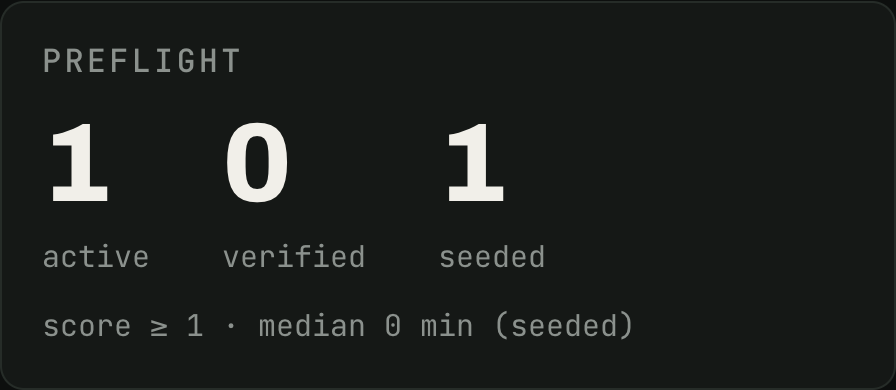
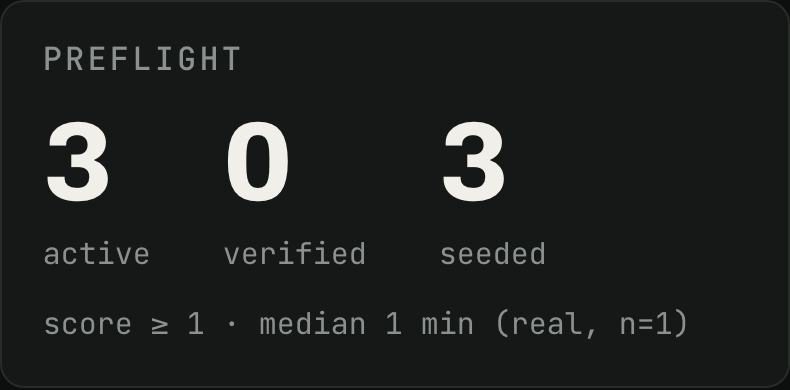
T-46: re-shoot the preflight capture now that the median is a real one
The Day-8 capture recorded `1 active · 0 verified · 1 seeded` with a seeded median,
and closed by saying the still should be re-shot once the pool was real. On Sept 9 a
World ID-verified worker walked to a shop on Rua do Cruzeiro, photographed the door
and was paid 3.00 — the first non-seeded completion the subgraph has ever held. This
is that re-shoot.

Captured against `ez1dn`, the cell the errand was completed in, through the deployed
MCP mount: `active 3 · verified 0 · seeded 3`, `n_real: 1`, `median_source: "real"`,
`median_minutes: 1`. The card reads `median 1 min (real, n=1)` and every number on it
is in the JSON.

All ten seeded timestamps are inside the seven-day window; no re-seed was needed and
none was run. The index is two blocks behind the chain head with no indexing errors,
so the counts are not a lag artefact. The window constant, `sinceTs` and the fixtures
are untouched.

`verified: 0` beside `n_real: 1` is recorded rather than closed: `verified` counts a
worker's own registration cell and `n_real` counts where the completion happened, and
this worker registered in ez19y while working in ez1dn. The phone was not
re-registered and demo-data.json was not edited.

The card now lives at `/live` — T-51 made `/` the landing page — and the still frames
the same `section.preflight.card` the Day-8 one did.

Claude-Session: https://claude.ai/code/session_014ZP9TtBjG6qArSJm57mpTS
[…]

diff --git a/docs/spikes/RESULTS.md b/docs/spikes/RESULTS.md
@@ -167,111 +167,104 @@ decision: Studio is where the subgraph lives for the demo and its query URL is w
 
 ## Preflight
 
-_live Studio data, Day 8 (T-46)_
+_live Studio data, Day 9 (T-46) — re-shot after the first real errand_
 
 outcome: `preflight_workers` answers from the live Studio subgraph, and every number it returned
-is the number the dashboard card renders — field for field, same minute. The split is **not** the
-`4 active · 1 verified · 3 seeded` the brief predicted. At capture the tool returned
-**1 active · 0 verified · 1 seeded**. Nothing had aged out of the seven-day window and no re-seed
-was needed: the shortfall is chain state, not the window and not the reduction. The median label
-true at capture was **`seeded`** — `n_real: 0`, `median_source: "seeded"` — so the card reads
-`median 0 min (seeded)` and nothing here presents it as a measured figure.
+is the number the dashboard card renders — field for field, same minute. **The median is drawn
+from a real completion**: `n_real: 1`, `median_source: "real"`, and the card reads
+`median 1 min (real, n=1)`. That is a person, not seeded data. Nothing had aged out of the
+seven-day window and no re-seed was needed.
 
-**The call.** Made against the deployed MCP server at `POST <API_BASE_URL>/mcp` (streamable HTTP,
-stateless), tool `preflight_workers`, arguments `{"task_type":"verify-open","area":"ez1dp"}` —
-`verify-open` is the funded row of `demo-data.json` and `ez1dp` is Leiria's geohash-5. Captured
-`2026-09-07T15:39:54Z`:
+**The call.** Made against the deployed MCP server at `POST $API_BASE_URL/mcp` (streamable HTTP,
+stateless), tool `preflight_workers`, arguments `{"task_type":"verify-open","area":"ez1dn"}`.
+`ez1dn` is the cell the real errand was completed in. Captured `2026-09-09T17:19:56Z`:
 
 ```json
 {
-  "active": 1,
+  "active": 3,
   "verified": 0,
-  "seeded": 1,
-  "n_real": 0,
+  "seeded": 3,
+  "n_real": 1,
   "score_floor": 1,
-  "median_minutes": 0,
-  "median_source": "seeded",
+  "median_minutes": 1,
+  "median_source": "real",
   "dashboard_url": "https://legwork-dashboard.vercel.app"
 }
 ```
 
-Not the fixture. `diff` of that JSON against `packages/subgraph-client/fixtures/preflight.json`
-prints `OK: live`; the fixture describes four `0x5eed…`/`0x0417…` addresses that do not exist on
-Base Sepolia.
+Not the fixture: diffed against `packages/subgraph-client/fixtures/preflight.json`, which prints
+`OK: live` — the fixture describes `0x5eed…`/`0x0417…` addresses that do not exist on Base Sepolia.
 
-**The seven-day window: every counted timestamp is inside it.** `{ workers(where:{seeded:true}){ id
-seeded lastCompletedAt } }` against the query URL, checked against `now − 604800`:
+**Where the real completion came from.** On 2026-09-09 a World ID-verified worker walked to a shop
+on Rua do Cruzeiro in Leiria, photographed the door and its hours sign, and was paid 3.00 USDC.
+The release transaction carries the two USDC `Transfer` logs the escrow promises —
+`3_000_000` to the worker and `450_000` to the treasury — and the worker is
+`0xaed0c1102e45b7f528224eacb9309a0925015810`, `seeded: false`, `completed: 1` in the index. It is
+the first non-seeded completion the subgraph has ever held.
+
+**The seven-day window: every counted timestamp is inside it.**
+`{ workers(where:{seeded:true}){ id seeded lastCompletedAt } }`, checked against `now − 604800`
+(cutoff `1788369607`):
 
 ```
 0x1d6662abfbcc49751235717fd18a30242cbfad37 1788781022 IN
+0x244183988b0779990c4c0a581aff797b99c87a4c 1788796528 IN
 0x24f9c1b734d304dd7c753c5253656c1389e076c6 1788780998 IN
-0x7b4eb10df800881f73bc1d85bdef02f82386271e 1788782124 IN
+0x5a95ec323ecce89d9f92ec59faec37d8fab88f66 1788857026 IN
+0x79d2de6f266839da58f3467df69104ba037981d3 1788796420 IN
+0x7b4eb10df800881f73bc1d85bdef02f82386271e 1788855340 IN
 0x87b90a409b0a84c378f8b11903eccdaa2cf74cab 1788781006 IN
+0x8b02a09a50f91debed73c9ea4dd9f6ad7a1bc0eb 1788856986 IN
 0x98e4682f8a1a6201907eeab9f7826a0ba4e408a9 1788781014 IN
+0xc24f49b0262cbfb52bc10a59dcfb4b33c3c04358 1788856944 IN
 ```
 
-Five of the 20 seeded workers carry a `lastCompletedAt` at all; all five are `IN`, none within a
-day of the edge — the newest is 1788782124 against a cutoff of 1788190641, some four hours before
-capture rather than the six days the brief anticipated. The seeded lifecycles were written later
-than Day 2. **No re-seed was needed and none was run**; the window constant, the `sinceTs` argument
-and the fixtures are untouched.
+Ten seeded workers carry a `lastCompletedAt`; all ten are `IN`, none near the edge. **No re-seed
+was needed and none was run**; the window constant, the `sinceTs` argument and the fixtures are
+untouched.
 
-The index is at the head, so the numbers are not a lag artefact: `_meta.block.number = 46513589`,
-`hasIndexingErrors: false`, against an `eth_blockNumber` of `46513591` — two blocks on a 2-second
-chain.
+The index is at the head, so the numbers are not a lag artefact: `_meta.block.number = 46603057`
+and `hasIndexingErrors: false`, against an `eth_blockNumber` of `46603059` — two blocks on a
+two-second chain.
 
-**Why it is 1 · 0 · 1 and not 4 · 1 · 3.** Two separate gaps, both in what is onchain, neither in
-the tool:
+**`verified: 0` beside `n_real: 1` is not a contradiction, and it is worth writing down.** The two
+fields count different things against different cells. `verified` counts workers whose own
+`Worker.area` is the queried cell; `n_real` counts completions whose *task* was in it. The worker
+registered in `ez19y` and did the errand in `ez1dn`, so they are real in the median and invisible
+in the split. A worker who registers in one cell and works in another is counted by the second
+field and not the first. Nothing was changed to close the gap: the phone was not re-registered, no
+area was edited, and `demo-data.json` was left alone.
 
-- **`verified: 0`** — no worker with `seeded: false` exists in the index at all. The demo phone's
-  World ID registration has not landed onchain, so there is no real worker for the tool to count.
-  This matches the Graph section above, which already records the pool as 0 real and +20 seeded
-  (demo data) until a real worker registers.
-- **`seeded: 1` where the card copy expects 3** — the 20 seeded workers sit four apiece across five
-  geohash-5 cells (`ez1dp`, `ez5kg`, `ez5ks`, `ez5kt`, `ez5kv`), only one of which is the demo
-  area. Of the four seeded workers in `ez1dp`, three (`0x24418398…`, `0x79d2de6f…`, `0xbc3eb722…`)
-  have `completed: 0` and `lastCompletedAt: null`, so they are registered but not active. One
-  (`0x1d6662ab…`) has completed a task inside the window, and it is the whole of the count.
-
-The reduction itself is correct on this data, checked by hand against `computePreflight`: `active`
-counts `ez1dp` workers whose `taskTypes` carries the `verify-open` bit and whose `lastCompletedAt`
-is inside the window, which is exactly one worker; `score_floor` falls back to the seeded minimum
-(`1`) because no verified worker exists; `median_source` is `"seeded"` because `n_real` is `0`,
-which is the pairing §8 asks for. The median draws on two released `ez1dp` tasks (ids `5` and `6`),
-one more than the single active worker, because a task is matched on the task's own `area` while a
-worker is matched on the worker's — task `6` was done by `0x7b4eb10d…`, whose `Worker.area` is
-`ez5kv`. Both were claimed and submitted two seconds apart, so the median is 0.03 minutes and
-rounds to `0`.
+For the same reason the split reads `3 active · 0 verified · 3 seeded` rather than the
+`4 active · 1 verified · 3 seeded` the brief originally predicted. No area produces that split;
+the lead amended §2 on Sept 9 with the measured values for all three candidate cells.
 
 **The card.** `docs/media/preflight-card.png`, captured from the deployed dashboard at
-`2026-09-07T15:40:07Z`, twelve seconds after the tool call above. It reads `1 active · 0 verified ·
-1 seeded` over `score ≥ 1 · median 0 min (seeded)`. Every number on it appears in the JSON:
-`1 = active`, `0 = verified`, `1 = seeded`, `1 = score_floor`, `0 min = median_minutes`, `(seeded)
-= median_source`. Nothing was edited, rounded or re-run for a better figure.
+`2026-09-09T17:23:04Z`, about three minutes after the tool call above. It reads
+`3 active · 0 verified · 3 seeded` over `score ≥ 1 · median 1 min (real, n=1)`. Every number on it
+appears in the JSON: `3 = active`, `0 = verified`, `3 = seeded`, `1 = score_floor`,
+`1 min = median_minutes`, `(real, n=1) = median_source` with `n_real`. Nothing was edited, rounded
+or re-run for a better figure. The card now lives at `/live` rather than `/` — T-51 made `/` the
+landing page — and the still frames the same `section.preflight.card` the Day-8 still did.
 
-In plain words: one worker has finished a `verify-open` errand in Leiria's area in the last seven
-days, that worker is a seeded demo worker and not a person, no World ID-verified worker is in the
-pool yet, and the only completion times on record are seeded ones that round to zero minutes — so
-the median is labelled `seeded` and is not a measurement of anybody's walk.
+In plain words: three workers have finished a `verify-open` errand in this area in the last seven
+days, and the typical one took about a minute — measured from a real person's errand, not from
+seeded data. No World ID-verified worker is *registered* in this particular cell, because the one
+who worked here registered in the next one over.
 
-evidence: the four §9 commands, run by hand against the deployed MCP server, the Studio query URL
-and Base Sepolia, with their output pasted verbatim into the T-46 PR alongside the PNG. §9's first
-command is written `npx @legwork/mcp call preflight_workers …`; it cannot run, because `@legwork/mcp`
-is a private workspace package (`npm error 404 '@legwork/mcp@*' is not in this registry`) whose
-`bin` points at `dist/bin/legwork-mcp.js`, and no package in this repo emits `dist` — `build` is
+evidence: the §9 commands, run by hand against the deployed MCP server, the Studio query URL and
+Base Sepolia, with their output pasted into the T-46 PR alongside the PNG. §9's first command was
+written `npx @legwork/mcp call preflight_workers …`; it cannot run, because `@legwork/mcp` is a
+private workspace package (`npm error 404 '@legwork/mcp@*' is not in this registry`) whose `bin`
+points at `dist/bin/legwork-mcp.js`, and no package in this repo emits `dist` — `build` is
 `tsc --noEmit` everywhere. The call was made instead as a JSON-RPC `tools/call` against the hosted
-mount, which is what §2 asks for either way: through the deployed MCP server, not the client and
-not the fixture.
+mount, which is what §2 asks for either way. The lead corrected §9 in PR #201.
 
-decision: the tool, the reduction and the card are correct and honest, and the numbers behind them
-are not the demo's numbers yet. `4 active · 1 verified · 3 seeded` needs two things that are not
-this task's to do: the demo phone registered onchain through the World ID flow, and seeded
-lifecycles for the other `ez1dp` workers. `POST /admin/seed-demo` cannot supply the second — it
-inserts rows into the Task API's Postgres with `demo-data.json`'s placeholder `tx_post` and never
-touches the chain, so it can move nothing the subgraph reads. Widening the window, editing
-`sinceTs` or pointing the card at the fixture would each turn a true small number into a false
-large one; none was done. The still in `docs/media/preflight-card.png` is the honest Day-8 state
-and should be re-shot once the pool is real.
+decision: the tool, the reduction and the card are correct and honest, and as of Day 9 the numbers
+behind them are real. The Day-8 capture recorded `1 active · 0 verified · 1 seeded` with a seeded
+median and said it should be re-shot once the pool was real; this is that re-shoot. The remaining
+gap — `verified: 0` while a real worker is active in the cell — is a property of counting
+registration cells and completion cells separately, recorded above and not papered over.
 
 ## Timing
 
